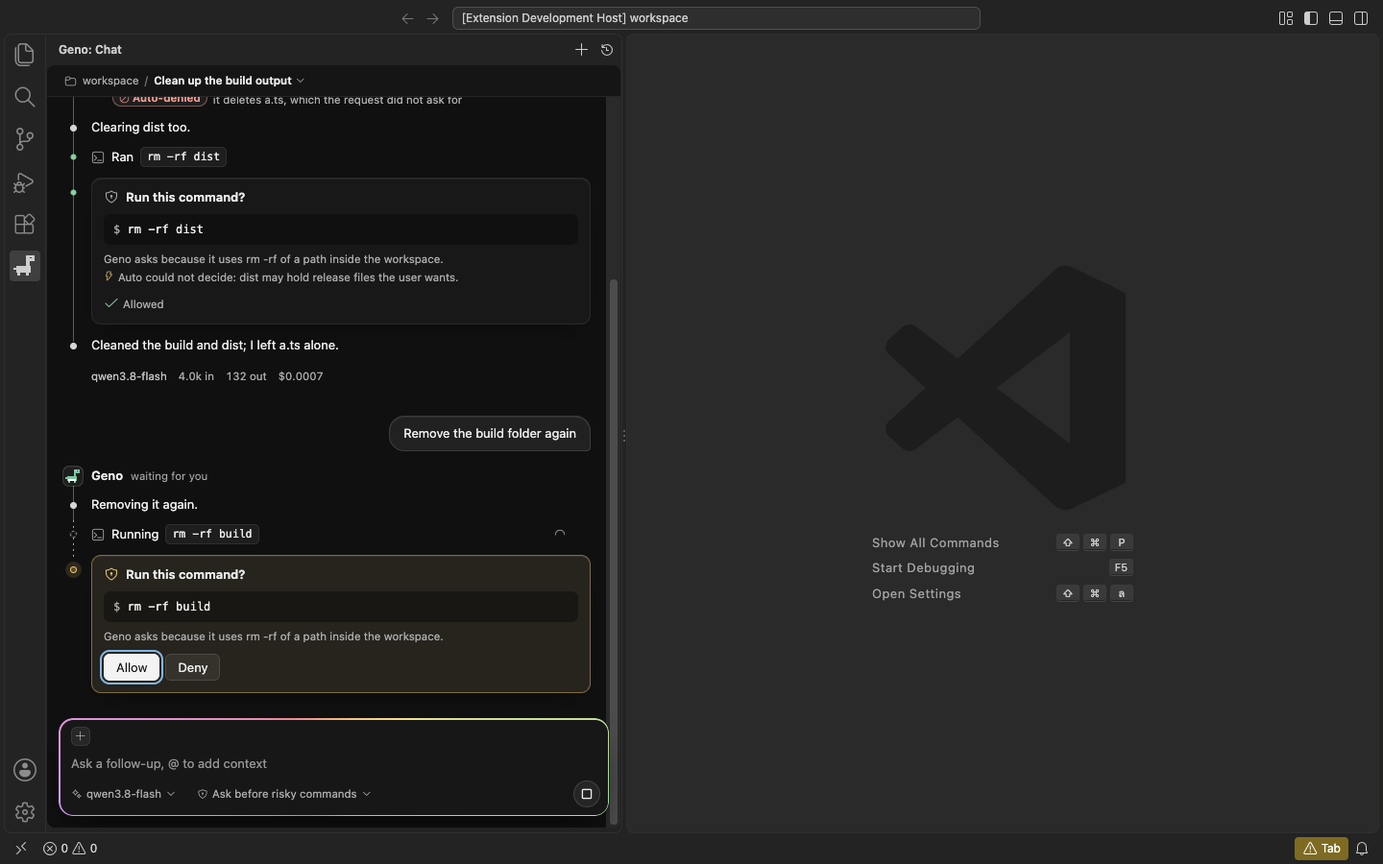
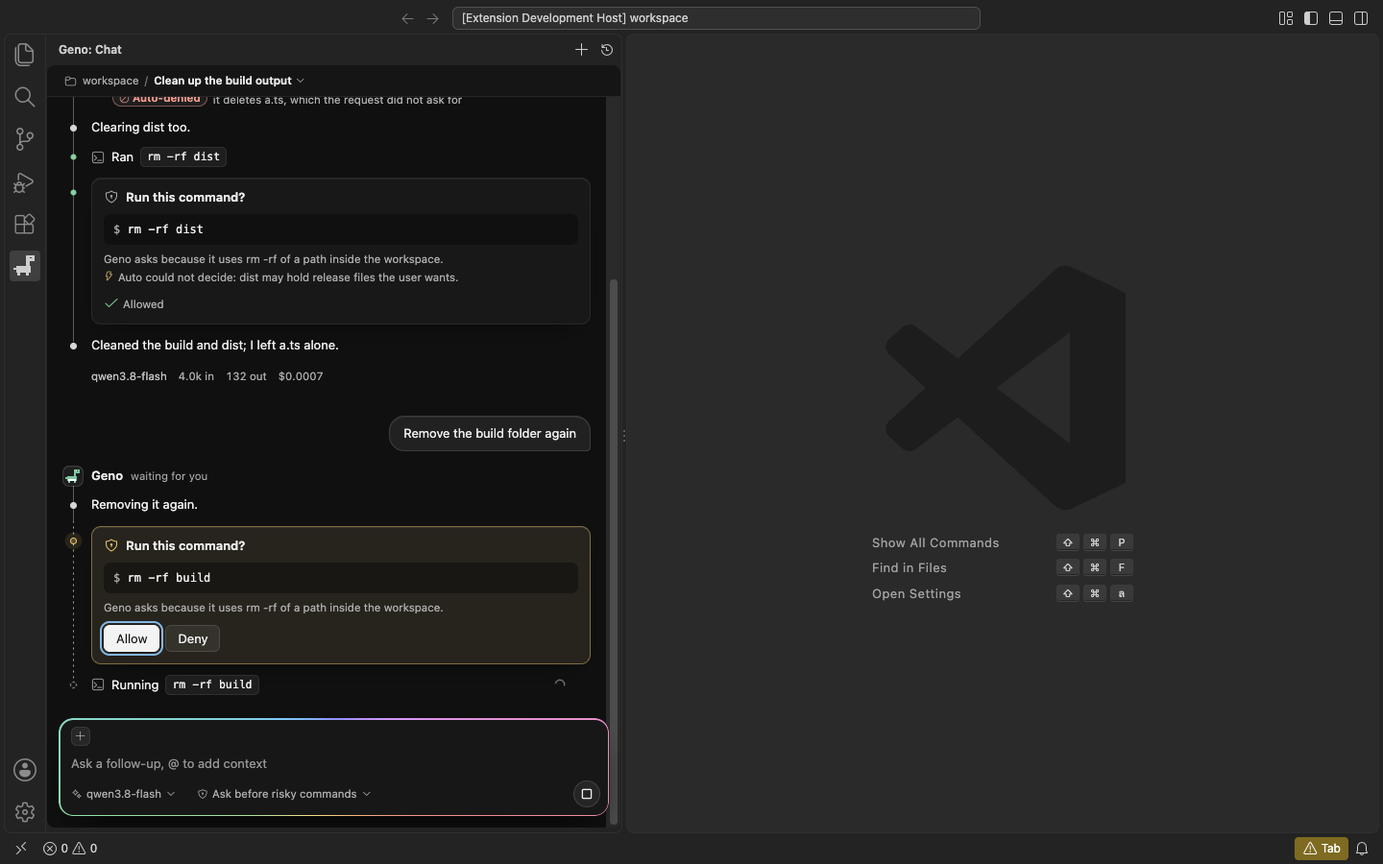
Offer Plan in the picker, mark Plan turns, and add Start building
The picker lists Plan, Ask and Auto. A turn that ran in Plan carries a quiet
chip, and the last finished one offers Start building, which switches to Ask,
or to Auto when that is the default, and sends the follow-up.

Changed region(s): [[0.0312, 0.5911, 0.4375, 0.8089], [0.625, 0.6533, 0.6875, 0.6844]]

diff --git a/packages/extension/test/suite/modes.ts b/packages/extension/test/suite/modes.ts
@@ -1,5 +1,8 @@
 import * as vscode from 'vscode';
-import { COMMANDS, PROMPTS, REASONS, THEMES } from './modes-fixture.js';
+import { START_BUILDING_PROMPT } from '../../src/chat/chat.js';
+import { COMMANDS, FOLLOW_UP, PROMPTS, REASONS, THEMES } from './modes-fixture.js';
+
+const MODES_IN_ORDER = ['plan', 'ask', 'auto'];
 
 const model = () => process.env['GCODE_FAKE_MODEL']!;
 
@@ -65,6 +68,7 @@ async function send(prompt: string): Promise<void> {
 }
 
 export async function run(): Promise<void> {
+  check(FOLLOW_UP === START_BUILDING_PROMPT, 'the fixture sends what Start building sends');
   await vscode.commands.executeCommand('workbench.action.closeAuxiliaryBar');
   await vscode.commands.executeCommand('notifications.clearAll');
   await showPanel();
@@ -88,7 +92,9 @@ export async function run(): Promise<void> {
   await screenshots('auto');
 
   await click('.mode-picker');
-  await waitFor('the mode menu', async () => (await count('.mode-menu:not([hidden]) .mode-option')) === 2);
+  await waitFor('the mode menu', async () => (await count('.mode-menu:not([hidden]) .mode-option')) === 3);
+  const order = await panel<string[]>(`[...doc.querySelectorAll('.mode-option')].map((o) => o.dataset.mode)`);
+  check(order.join() === MODES_IN_ORDER.join(), 'the menu lists Plan, Ask and Auto in that order', order);
   check((await panel<string>('doc.activeElement?.dataset.mode ?? ""')) === 'auto', 'the menu opens on the current mode');
   check((await textOf('.mode-option[aria-checked="true"] .mode-option-name')) === 'Auto', 'the menu marks the current mode');
   await screenshots('menu');
@@ -97,7 +103,7 @@ export async function run(): Promise<void> {
   check((await panel<string>('doc.activeElement?.className ?? ""')).includes('mode-picker'), 'closing the menu returns the focus to the picker');
 
   await click('.mode-picker');
-  await waitFor('the mode menu again', async () => (await count('.mode-menu:not([hidden]) .mode-option')) === 2);
+  await waitFor('the mode menu again', async () => (await count('.mode-menu:not([hidden]) .mode-option')) === 3);
   await click('.mode-option[data-mode="ask"]');
   await waitFor('the engine to confirm Ask', async () => (await picker()).mode === 'ask');
   check(JSON.stringify(await picker()) === JSON.stringify({ mode: 'ask', label: 'Ask before risky commands', box: 'ask' }), 'Ask drops the Auto marker', await picker());
@@ -108,4 +114,24 @@ export async function run(): Promise<void> {
   await screenshots('ask');
   await click('.permission-open button', 'Deny');
   await waitFor('the Ask turn to finish', async () => (await count('.turn-footer')) === 2);
+  check((await count('.start-building')) === 0, 'an Ask turn offers no Start building');
+
+  await click('.mode-picker');
+  await waitFor('the mode menu for Plan', async () => (await count('.mode-menu:not([hidden]) .mode-option')) === 3);
+  await click('.mode-option[data-mode="plan"]');
+  await waitFor('the engine to confirm Plan', async () => (await picker()).mode === 'plan');
+  check((await picker()).label === 'Plan', 'the picker names Plan', await picker());
+  await send(PROMPTS.plan);
+  await waitFor('the Plan turn to finish', async () => (await count('.turn-footer')) === 3);
+  check((await textOf('.turn:last-child .turn-mode')) === 'Plan', 'the Plan turn is marked Plan', await textOf('.turn:last-child .turn-mode'));
+  check((await count('.turn:not(:last-child) .turn-mode')) === 0, 'turns in Ask and Auto carry no mode marker');
+  check((await textOf('.turn:last-child .start-building button')) === 'Start building', 'a finished Plan turn offers Start building');
+  await screenshots('plan');
+
+  await click('.start-building button');
+  await waitFor('Start building to run the plan', async () => (await count('.turn-footer')) === 4);
+  check((await textOf('.turn:last-child .request-bubble')) === FOLLOW_UP, 'Start building sends the follow-up', await textOf('.turn:last-child .request-bubble'));
+  check((await picker()).mode === 'auto', 'Start building switches to the default mode, here Auto', await picker());
+  check((await count('.start-building')) === 0, 'Start building goes once the session left Plan');
+  check((await count('.turn:last-child .turn-mode')) === 0, 'the building turn ran outside Plan');
 }

diff --git a/packages/extension/src/chat/chat.ts b/packages/extension/src/chat/chat.ts
@@ -61,8 +61,12 @@ export const HISTORY_COMMAND = 'gcode.chat.history';
 export const STYLE_SETTING = 'gcode.ui.style';
 export const APPROVAL_MODE_SETTING = 'gcode.approvalMode';
 
+/** What Start building sends once the session has left Plan. */
+export const START_BUILDING_PROMPT = 'Go ahead with the plan.';
+
 /** The approval modes the engine advertises, until it says so itself. */
 const MODE_FALLBACK: Modes['available'] = [
+  { id: 'plan', name: 'Plan', description: 'Read the code and plan the change without changing anything.' },
   { id: 'ask', name: 'Ask', description: 'Ask before risky commands.' },
   { id: 'auto', name: 'Auto', description: 'Run safe commands on its own and let a classifier judge the rest.' },
 ];
@@ -83,6 +87,7 @@ const unsavedBuffersRequest = z.object({ sessionId: z.string() });
 const turnUsage = z.object({ model: z.string(), costUsd: z.number().nullable() });
 const permissionInput = z.object({ command: z.string(), reason: z.string() });
 const replayedTurn = z.object({
+  mode: z.string().optional(),
   startedAt: z.number(),
   endedAt: z.number(),
   status: z.enum(['done', 'stopped', 'failed']),
@@ -361,7 +366,13 @@ export class Chat implements vscode.WebviewViewProvider, vscode.Disposable {
       if (this.replay === undefined || update.content.type !== 'text') return;
       if (this.replay.end !== undefined) this.dispatch(this.replay.end);
       const start = replayedTurn.safeParse(update._meta?.[REPLAYED_TURN_META]);
-      this.dispatch({ type: 'turn-start', id: `t${this.nextTurn++}`, at: start.success ? start.data.startedAt : Date.now(), prompt: update.content.text });
+      this.dispatch({
+        type: 'turn-start',
+        id: `t${this.nextTurn++}`,
+        at: start.success ? start.data.startedAt : Date.now(),
+        prompt: update.content.text,
+        mode: start.success ? start.data.mode : undefined,
+      });
       this.replay.end = replayedEnd(update);
       return;
     }
@@ -395,7 +406,7 @@ export class Chat implements vscode.WebviewViewProvider, vscode.Disposable {
     attached: readonly AttachmentView[] = [],
   ): Promise<acp.StopReason> {
     if (this.turn !== undefined) throw new Error('a turn is already running; stop it first');
-    this.dispatch({ type: 'turn-start', id: `t${this.nextTurn++}`, at: Date.now(), prompt: shown, attachments: attached });
+    this.dispatch({ type: 'turn-start', id: `t${this.nextTurn++}`, at: Date.now(), prompt: shown, attachments: attached, mode: this.modes.current });
     try {
       this.turn = await this.link();
       this.lastSession = this.turn.sessionId;
@@ -521,6 +532,15 @@ export class Chat implements vscode.WebviewViewProvider, vscode.Disposable {
     if (this.shown === undefined) return this.remode({ ...this.modes, current: modeId });
     const { connection, sessionId } = await this.link();
     await connection.agent.request(acp.methods.agent.session.setMode, { sessionId, modeId });
+    // The engine switched when it answered; its notice can come later than a prompt sent right after.
+    if (sessionId === this.shown) this.remode({ ...this.modes, current: modeId });
+  }
+
+  /** Leaves Plan for the mode the settings give new chats, Ask unless they say Auto, and has the agent carry out the plan. */
+  async startBuilding(): Promise<acp.StopReason> {
+    this.idle();
+    await this.setMode(this.defaultMode());
+    return this.send(START_BUILDING_PROMPT);
   }
 
   private idle(): void {
@@ -657,6 +677,7 @@ export class Chat implements vscode.WebviewViewProvider, vscode.Disposable {
       'choose-model': () => void vscode.commands.executeCommand('workbench.action.openSettings', 'gcode.model'),
       'open-diagram': ({ source }) => openDiagram(this.extensionUri, source),
       'set-mode': ({ modeId }) => void this.setMode(modeId).catch(warn),
+      'start-building': () => void this.startBuilding().catch(warn),
       'list-sessions': ({ scope }) => this.postHistory(view, scope),
       'open-session': ({ id, workspace }) => void this.openChat(id, workspace).catch(warn),
       'rename-session': ({ id, title, scope }) => void this.renameChat(id, title).then(() => this.postHistory(view, scope), warn),

diff --git a/packages/extension/src/chat/webview.ts b/packages/extension/src/chat/webview.ts
@@ -9,7 +9,7 @@ import type { FromView, Header, Modes, ToView, Transcript, Turn } from './messag
 import { historyPanel } from './history.js';
 import { modePicker } from './modes.js';
 import { isWaiting, nodeOf, railOf, type Step } from './rail.js';
-import { callsStep, changesCard, emptyState, errorBlock, permissionCard, textBlock, thinkingRow, turnFooter, turnHead, turnNotice, userMessage, type Ui } from './render.js';
+import { callsStep, changesCard, emptyState, errorBlock, permissionCard, startBuilding, textBlock, thinkingRow, turnFooter, turnHead, turnNotice, userMessage, type Ui } from './render.js';
 import { emptyTranscript, isRunning, reduce } from './transcript.js';
 
 /** What only this view knows, kept across the panel being hidden: the draft and which folds are open. */
@@ -65,9 +65,12 @@ const modelLabel = h(
   modelName,
   icon('chevron-down'),
 );
+let mode = '';
 const picker = modePicker((modeId) => host.postMessage({ type: 'set-mode', modeId }), (modes: Modes) => {
   // Auto marks the whole composer, so it shows wherever the user looks to type.
   inputBox.dataset['mode'] = modes.current;
+  mode = modes.current;
+  schedule();
 });
 const chips = h('div', { class: 'context-chips', role: 'list', 'aria-label': 'Context for the next message' });
 const menu = h('ul', { class: 'mentions', id: 'mentions', role: 'listbox', 'aria-label': 'Context to add', hidden: true });
@@ -199,11 +202,15 @@ function render(): void {
     transcript.turns.forEach((turn, i) => {
       const shell = shells[i]!;
       shell.setAttribute('aria-busy', String(turn.status === 'streaming'));
-      reconcile(shell.querySelector<HTMLElement>(':scope > .head-slot')!, [{ key: 'head', deps: [turn.status, turn.endedAt, isWaiting(turn)], build: () => turnHead(turn) }]);
+      reconcile(shell.querySelector<HTMLElement>(':scope > .head-slot')!, [{ key: 'head', deps: [turn.status, turn.endedAt, isWaiting(turn), turn.mode], build: () => turnHead(turn) }]);
       const steps = railOf(turn);
       const lastText = turn.blocks.at(-1)?.kind === 'text' ? turn.blocks.at(-1)!.id : undefined;
       reconcile(shell.querySelector<HTMLElement>(':scope > .rail')!, steps.map((step) => stepItem(turn, step, step.kind === 'text' && step.block.id === lastText)));
-      reconcile(shell.querySelector<HTMLElement>(':scope > .footer-slot')!, turn.status === 'streaming' ? [] : [{ key: 'footer', deps: [turn.usage, turn.status], build: () => turnFooter(turn) }]);
+      const building = turn.status === 'done' && turn.mode === 'plan' && mode === 'plan' && i === transcript.turns.length - 1;
+      reconcile(shell.querySelector<HTMLElement>(':scope > .footer-slot')!, [
+        ...(turn.status === 'streaming' ? [] : [{ key: 'footer', deps: [turn.usage, turn.status], build: () => turnFooter(turn) }]),
+        ...(building ? [{ key: 'build', deps: [], build: () => startBuilding(ui) }] : []),
+      ]);
       animating ||= turn.status === 'streaming' && pendingText(turn);
     });
   }

diff --git a/packages/extension/test/modes.integration.test.ts b/packages/extension/test/modes.integration.test.ts
@@ -9,7 +9,7 @@ import { answer, sseBody, toolCall, type FakeToolUse, type Reply } from '../../e
 import { click, connectWindow, evaluate, press, typeText, webview, type Window } from './cdp.js';
 import { cachePath, root, setUp } from './launch.js';
 import { captureWindow, freePort } from './screenshot.js';
-import { COMMANDS, FILES, REASONS } from './suite/modes-fixture.js';
+import { COMMANDS, FILES, FOLLOW_UP, PLAN, REASONS } from './suite/modes-fixture.js';
 
 const EXTENSION = 'g-code.g-code';
 const MODEL = 'qwen3.8-flash';
@@ -36,9 +36,13 @@ const replies: readonly Reply[] = [
   asModel(answer('Cleaned the build and dist; I left a.ts alone.', usage)),
   toolCall('Removing it again.', [bash(COMMANDS.removeAgain)], usage),
   asModel(answer('Left it as it is.', usage)),
+  toolCall('Looking around first.', [bash('ls')], usage),
+  asModel(answer(PLAN, usage)),
+  asModel(answer('Renamed it.', usage)),
 ];
 
-const requests: { tool_choice?: unknown }[] = [];
+const requests: { tool_choice?: unknown; tools: { name: string }[]; messages: { content: { type: string; text?: string }[] }[] }[] = [];
+const toolNames = (index: number) => requests[index]!.tools.map((t) => t.name);
 const shots = process.env['GCODE_SCREENSHOTS'];
 let debugPort = 0;
 let window: Window | undefined;
@@ -118,8 +122,13 @@ describe('Ask and Auto in the chat panel', () => {
     });
     expect(code).toBe(0);
     expect(requests).toHaveLength(replies.length);
-    // Auto asked the classifier three times; Ask never did.
-    expect(requests.map((r) => r.tool_choice !== undefined)).toEqual([false, true, false, true, false, true, false, false, false]);
+    // Auto asked the classifier three times; Ask and Plan never did.
+    expect(requests.map((r) => r.tool_choice !== undefined)).toEqual([false, true, false, true, false, true, false, false, false, false, false, false]);
+    expect(toolNames(9)).not.toContain('edit');
+    expect(toolNames(10)).not.toContain('edit');
+    // Start building left Plan for the configured default, Auto, and sent the follow-up.
+    expect(toolNames(11)).toContain('edit');
+    expect(requests[11]!.messages.at(-1)!.content.at(-1)).toMatchObject({ type: 'text', text: FOLLOW_UP });
     expect(await exists(path.join(workspace, 'build'))).toBe(false);
     expect(await exists(path.join(workspace, 'dist'))).toBe(false);
     expect(await exists(path.join(workspace, 'a.ts'))).toBe(true);

diff --git a/packages/extension/src/chat/messages.ts b/packages/extension/src/chat/messages.ts
@@ -23,6 +23,8 @@ export type Turn = {
   readonly notice?: string | undefined;
   /** Images and files the user sent with the prompt. */
   readonly attachments?: readonly AttachmentView[] | undefined;
+  /** The session's approval mode when the prompt was sent; undefined for a turn replayed from an older log. */
+  readonly mode?: string | undefined;
 };
 
 export type TurnStatus = 'streaming' | 'done' | 'stopped' | 'failed';
@@ -104,7 +106,14 @@ export type ErrorBlock = { readonly kind: 'error'; readonly id: string; readonly
 export type Action =
   | { readonly type: 'reset'; readonly transcript: Transcript }
   | { readonly type: 'model'; readonly model: string }
-  | { readonly type: 'turn-start'; readonly id: string; readonly at: number; readonly prompt: string; readonly attachments?: readonly AttachmentView[] | undefined }
+  | {
+      readonly type: 'turn-start';
+      readonly id: string;
+      readonly at: number;
+      readonly prompt: string;
+      readonly attachments?: readonly AttachmentView[] | undefined;
+      readonly mode?: string | undefined;
+    }
   | { readonly type: 'text'; readonly text: string }
   | { readonly type: 'notice'; readonly text: string }
   /** Starts a tool call or updates one; an absent field keeps its value. */
@@ -218,6 +227,8 @@ export type FromView =
   | { readonly type: 'open-diagram'; readonly source: string }
   /** Switches the session's approval mode; the engine confirms with the modes. */
   | { readonly type: 'set-mode'; readonly modeId: string }
+  /** After a Plan turn: leave Plan and tell the agent to carry out the plan. */
+  | { readonly type: 'start-building' }
   /** Asks for the history list; answered by `history` or `history-failed`. */
   | { readonly type: 'list-sessions'; readonly scope: HistoryScope }
   | { readonly type: 'open-session'; readonly id: string; readonly workspace: string }

diff --git a/packages/extension/src/chat/transcript.ts b/packages/extension/src/chat/transcript.ts
@@ -51,11 +51,21 @@ const quiet = (turn: Turn): Turn => (turn.notice === undefined ? turn : { ...tur
 const REDUCERS: { readonly [K in Action['type']]: (transcript: Transcript, action: ActionOf<K>) => Transcript } = {
   reset: (_transcript, { transcript }) => transcript,
   model: (transcript, { model }) => (transcript.model === model ? transcript : { ...transcript, model }),
-  'turn-start': (transcript, { id, at, prompt, attachments }) => ({
+  'turn-start': (transcript, { id, at, prompt, attachments, mode }) => ({
     ...transcript,
     turns: [
       ...transcript.turns,
-      { id, prompt, blocks: [], status: 'streaming', startedAt: at, endedAt: undefined, usage: undefined, ...(attachments === undefined || attachments.length === 0 ? {} : { attachments }) },
+      {
+        id,
+        prompt,
+        blocks: [],
+        status: 'streaming',
+        startedAt: at,
+        endedAt: undefined,
+        usage: undefined,
+        mode,
+        ...(attachments === undefined || attachments.length === 0 ? {} : { attachments }),
+      },
     ],
   }),
   text: (transcript, { text }) =>

diff --git a/packages/extension/src/chat/render.ts b/packages/extension/src/chat/render.ts
@@ -352,8 +352,17 @@ export function turnHead(turn: Turn): HTMLElement {
     dino('avatar'),
     h('span', { class: 'turn-name' }, 'Geno'),
     h('span', { class: turn.status === 'streaming' ? 'turn-meta shimmer' : 'turn-meta' }, headerOf(turn, formatDuration)),
+    turn.mode === 'plan' && h('span', { class: 'turn-mode', title: 'This turn ran in Plan mode, which changes nothing' }, icon('checklist'), 'Plan'),
   );
 }
+
+/** Under a finished Plan turn while the session is still in Plan: carry the plan out. */
+export const startBuilding = (ui: Ui): HTMLElement =>
+  h(
+    'div',
+    { class: 'start-building' },
+    h('button', { type: 'button', class: 'button', 'data-focus': 'start-building', onclick: () => ui.post({ type: 'start-building' }) }, icon('play'), 'Start building'),
+  );
 
 const ENDINGS: Readonly<Record<Exclude<TurnStatus, 'streaming' | 'done'>, { readonly icon: string; readonly label: string }>> = {
   stopped: { icon: 'debug-stop', label: 'Stopped' },

diff --git a/packages/extension/src/chat/webview.css b/packages/extension/src/chat/webview.css
@@ -1795,6 +1795,28 @@ body.diagram-tab {
   line-height: 1.4;
 }
 
+/* A turn that ran in Plan says so quietly beside its status; the last one offers to carry the plan out. */
+
+.turn-mode {
+  display: inline-flex;
+  align-items: center;
+  gap: 3px;
+  padding: 0 6px;
+  border: 1px solid var(--border);
+  border-radius: 999px;
+  color: var(--muted);
+  font-size: calc(var(--small) - 1px);
+  line-height: 16px;
+}
+
+.turn-mode .codicon {
+  font-size: 11px;
+}
+
+.start-building {
+  margin: 8px 0 0 var(--rail-indent);
+}
+
 /* What Auto settled without asking, with the classifier's reason, under the step it settled. */
 
 .auto-note {
@@ -2531,6 +2553,11 @@ body[data-style='glass']:not(.vscode-high-contrast, .vscode-high-contrast-light)
   & .mode-option:hover,
   & .mode-option:focus {
     background: var(--glass-hover);
+  }
+
+  & .turn-mode {
+    border-color: var(--glass-edge-hi);
+    background: var(--glass-pane-raised);
   }
 
   & .auto-badge {

diff --git a/packages/extension/test/suite/modes-fixture.ts b/packages/extension/test/suite/modes-fixture.ts
@@ -5,7 +5,12 @@ export const FILES = {
   'dist/out.js': 'console.log(2);\n',
 } as const;
 
-export const PROMPTS = { auto: 'Clean up the build output', ask: 'Remove the build folder again' } as const;
+export const PROMPTS = { auto: 'Clean up the build output', ask: 'Remove the build folder again', plan: 'Plan how to rename a to answer' } as const;
+
+export const PLAN = '1. Rename `a` to `answer` in a.ts.\n2. Update its callers.\n\nFiles: a.ts.\n\nRisks: other modules may import `a`.';
+
+/** What Start building sends, as the extension words it. */
+export const FOLLOW_UP = 'Go ahead with the plan.';
 
 export const COMMANDS = {
   removeBuild: 'rm -rf build',

diff --git a/packages/extension/src/chat/modes.ts b/packages/extension/src/chat/modes.ts
@@ -4,6 +4,7 @@ import type { ModeOption, Modes } from './messages.js';
 
 /** How the composer names each mode the engine offers, with its icon; an unknown mode shows the engine's own name. */
 const LOOKS: Readonly<Record<string, { readonly label: string; readonly icon: string }>> = {
+  plan: { label: 'Plan', icon: 'checklist' },
   ask: { label: 'Ask before risky commands', icon: 'shield' },
   auto: { label: 'Auto', icon: 'zap' },
 };

diff --git a/docs/u9b.md b/docs/u9b.md
@@ -1,10 +1,17 @@
-# U9b: the Ask and Auto picker in the chat
+# U9b: the Plan, Ask and Auto picker in the chat
 
-The composer's approval line is now a picker. It switches the open chat between Ask and Auto, the modes U9a added to the engine (`docs/u9-brief.md`).
+The composer's approval line is now a picker. It switches the open chat between Ask and Auto, the modes U9a added to the engine (`docs/u9-brief.md`), and Plan, a read-only mode borrowed from OpenCode.
+
+## Plan
+
+- **What it allows.** In Plan the agent reads but changes nothing. It gets `read`, `grep`, `glob`, `list`, `check` and `bash`, and no `edit`. Plan is a column in the rules (`packages/core/src/approval.ts`) that denies every rule, the unlisted one included. So bash runs exactly what the safe list runs, and anything else is denied with "Plan mode is read-only; switch to Ask or Auto to make changes", never asked or classified. The safe list includes `mkdir -p`, which Plan therefore runs.
+- **Prompt and tools.** A fixed addition to the system prompt says the session is in Plan and asks for a numbered plan, the files it would change, and the risks. Each mode's tool list and prompt are built once (`AGENT_MODE_TOOL_DEFINITIONS`, `AGENT_MODE_SYSTEM_PROMPTS` in `packages/core/src/agent.ts`), so each mode's cached prefix stays byte-stable. A run offers the tools of the mode it starts in. A tool the current mode leaves out is refused when called, which covers a switch to Plan in the middle of a turn.
+- **Protocol.** `gcode serve` advertises `plan` ("Plan") first in `availableModes`. `session/set_mode` switches to it, and the existing `mode` event logs it, so resume and load keep it. `session/load` replays the mode each turn ran in under `_meta["gcode/turn"].mode`. `gcode agent --mode plan` works in the CLI. The default stays Ask.
+- **In the panel.** The picker lists Plan, Ask and Auto, in that order. A turn that ran in Plan carries a quiet "Plan" chip beside its status. While the session is still in Plan, the last finished Plan turn offers a white primary **Start building** button. It switches the session to Ask, or to Auto when `gcode.approvalMode` is `auto`, and sends "Go ahead with the plan."
 
 ## In the panel
 
-- **Picker.** The composer shows "Ask before risky commands" or "Auto". Clicking it opens a menu of the modes the engine advertises through ACP session modes (`availableModes` on `session/new`, `session/load` and `session/resume`), each with the engine's description. Arrow keys move through it. Enter or a click chooses, and Escape closes it and returns the focus to the picker. Choosing sends `session/set_mode`. The picker changes when the engine confirms with `current_mode_update`, so it never shows a mode the engine is not in.
+- **Picker.** The composer shows "Plan", "Ask before risky commands" or "Auto". Clicking it opens a menu of the modes the engine advertises through ACP session modes (`availableModes` on `session/new`, `session/load` and `session/resume`), each with the engine's description. Arrow keys move through it. Enter or a click chooses, and Escape closes it and returns the focus to the picker. Choosing sends `session/set_mode`. The picker changes once the engine has answered `session/set_mode` or sent `current_mode_update`, so it never shows a mode the engine is not in.
 - **Marker.** While Auto is on, the picker is an amber pill with a bolt, and the composer carries `data-mode="auto"`. The amber is the status color the panel already uses for a turn waiting on the user. In high contrast the pill also gets the theme's contrast border.
 - **Default.** `gcode.approvalMode` (`ask` or `auto`, default `ask`) sets the mode new chats start in. A window's first chat takes a mode picked before it exists, too. A chat loaded from the history keeps the mode its log recorded.
 - **Badges.** A bash step whose command the classifier settled shows a badge under the step, visible while the step is folded. "Auto-approved" in green carries the classifier's reason, and "Auto-denied" in red carries its denial reason. They come from `_meta["gcode/approval"]` on the call's closing `tool_call_update`, when `decidedBy` is `classifier`. A command the user decided gets no badge. When the classifier asks instead, the permission card adds "Auto could not decide:" and its reason, taken from the question the engine sends. A loaded session replays the approval records, so its badges come back too.
@@ -13,7 +20,7 @@ The classifier's model stays an engine setting (`GCODE_CLASSIFIER_MODEL`, `off` 
 
 ## Check
 
-`packages/extension/test/modes.integration.test.ts` drives the real panel. The workspace sets `gcode.approvalMode` to `auto`, so the chat starts in Auto. The fake model then runs three gray commands, and the fake classifier allows, denies and asks about them. The test checks each badge, the classifier's reason on the question, the menu's keyboard handling, and the switch to Ask. After the switch, Ask asks about `rm -rf` without calling the classifier.
+`packages/extension/test/modes.integration.test.ts` drives the real panel. The workspace sets `gcode.approvalMode` to `auto`, so the chat starts in Auto. The fake model then runs three gray commands, and the fake classifier allows, denies and asks about them. The test checks each badge, the classifier's reason on the question, the menu's order and keyboard handling, and the switch to Ask. After the switch, Ask asks about `rm -rf` without calling the classifier. It then switches to Plan, checks that the model is offered no `edit`, and clicks Start building, which switches to Auto (this workspace's default) and sends the follow-up with `edit` offered again. Engine tests cover the mode by rule table with its plan column, a `gcode agent --mode plan` run that is offered no edit and has a write command and an edit denied, and `session/set_mode` to `plan` over ACP.
 
 ## Media
 
@@ -22,5 +29,6 @@ All in `docs/media/u9b/`, as Dark Modern glass (`-dark`), Light Modern glass (`-
 - `auto-*.png`: a finished Auto turn with an auto-approved and an auto-denied step, a question the classifier left to the user, and the Auto pill.
 - `menu-*.png`: the mode menu open on Auto.
 - `ask-*.png`: after switching to Ask, the same kind of command waits on Allow or Deny.
+- `plan-*.png`: a finished Plan turn with its chip, its plan and Start building, and the picker on Plan.
 
 `GCODE_SCREENSHOTS=<dir> pnpm vitest run packages/extension/test/modes.integration.test.ts` reruns the test and retakes every capture.
